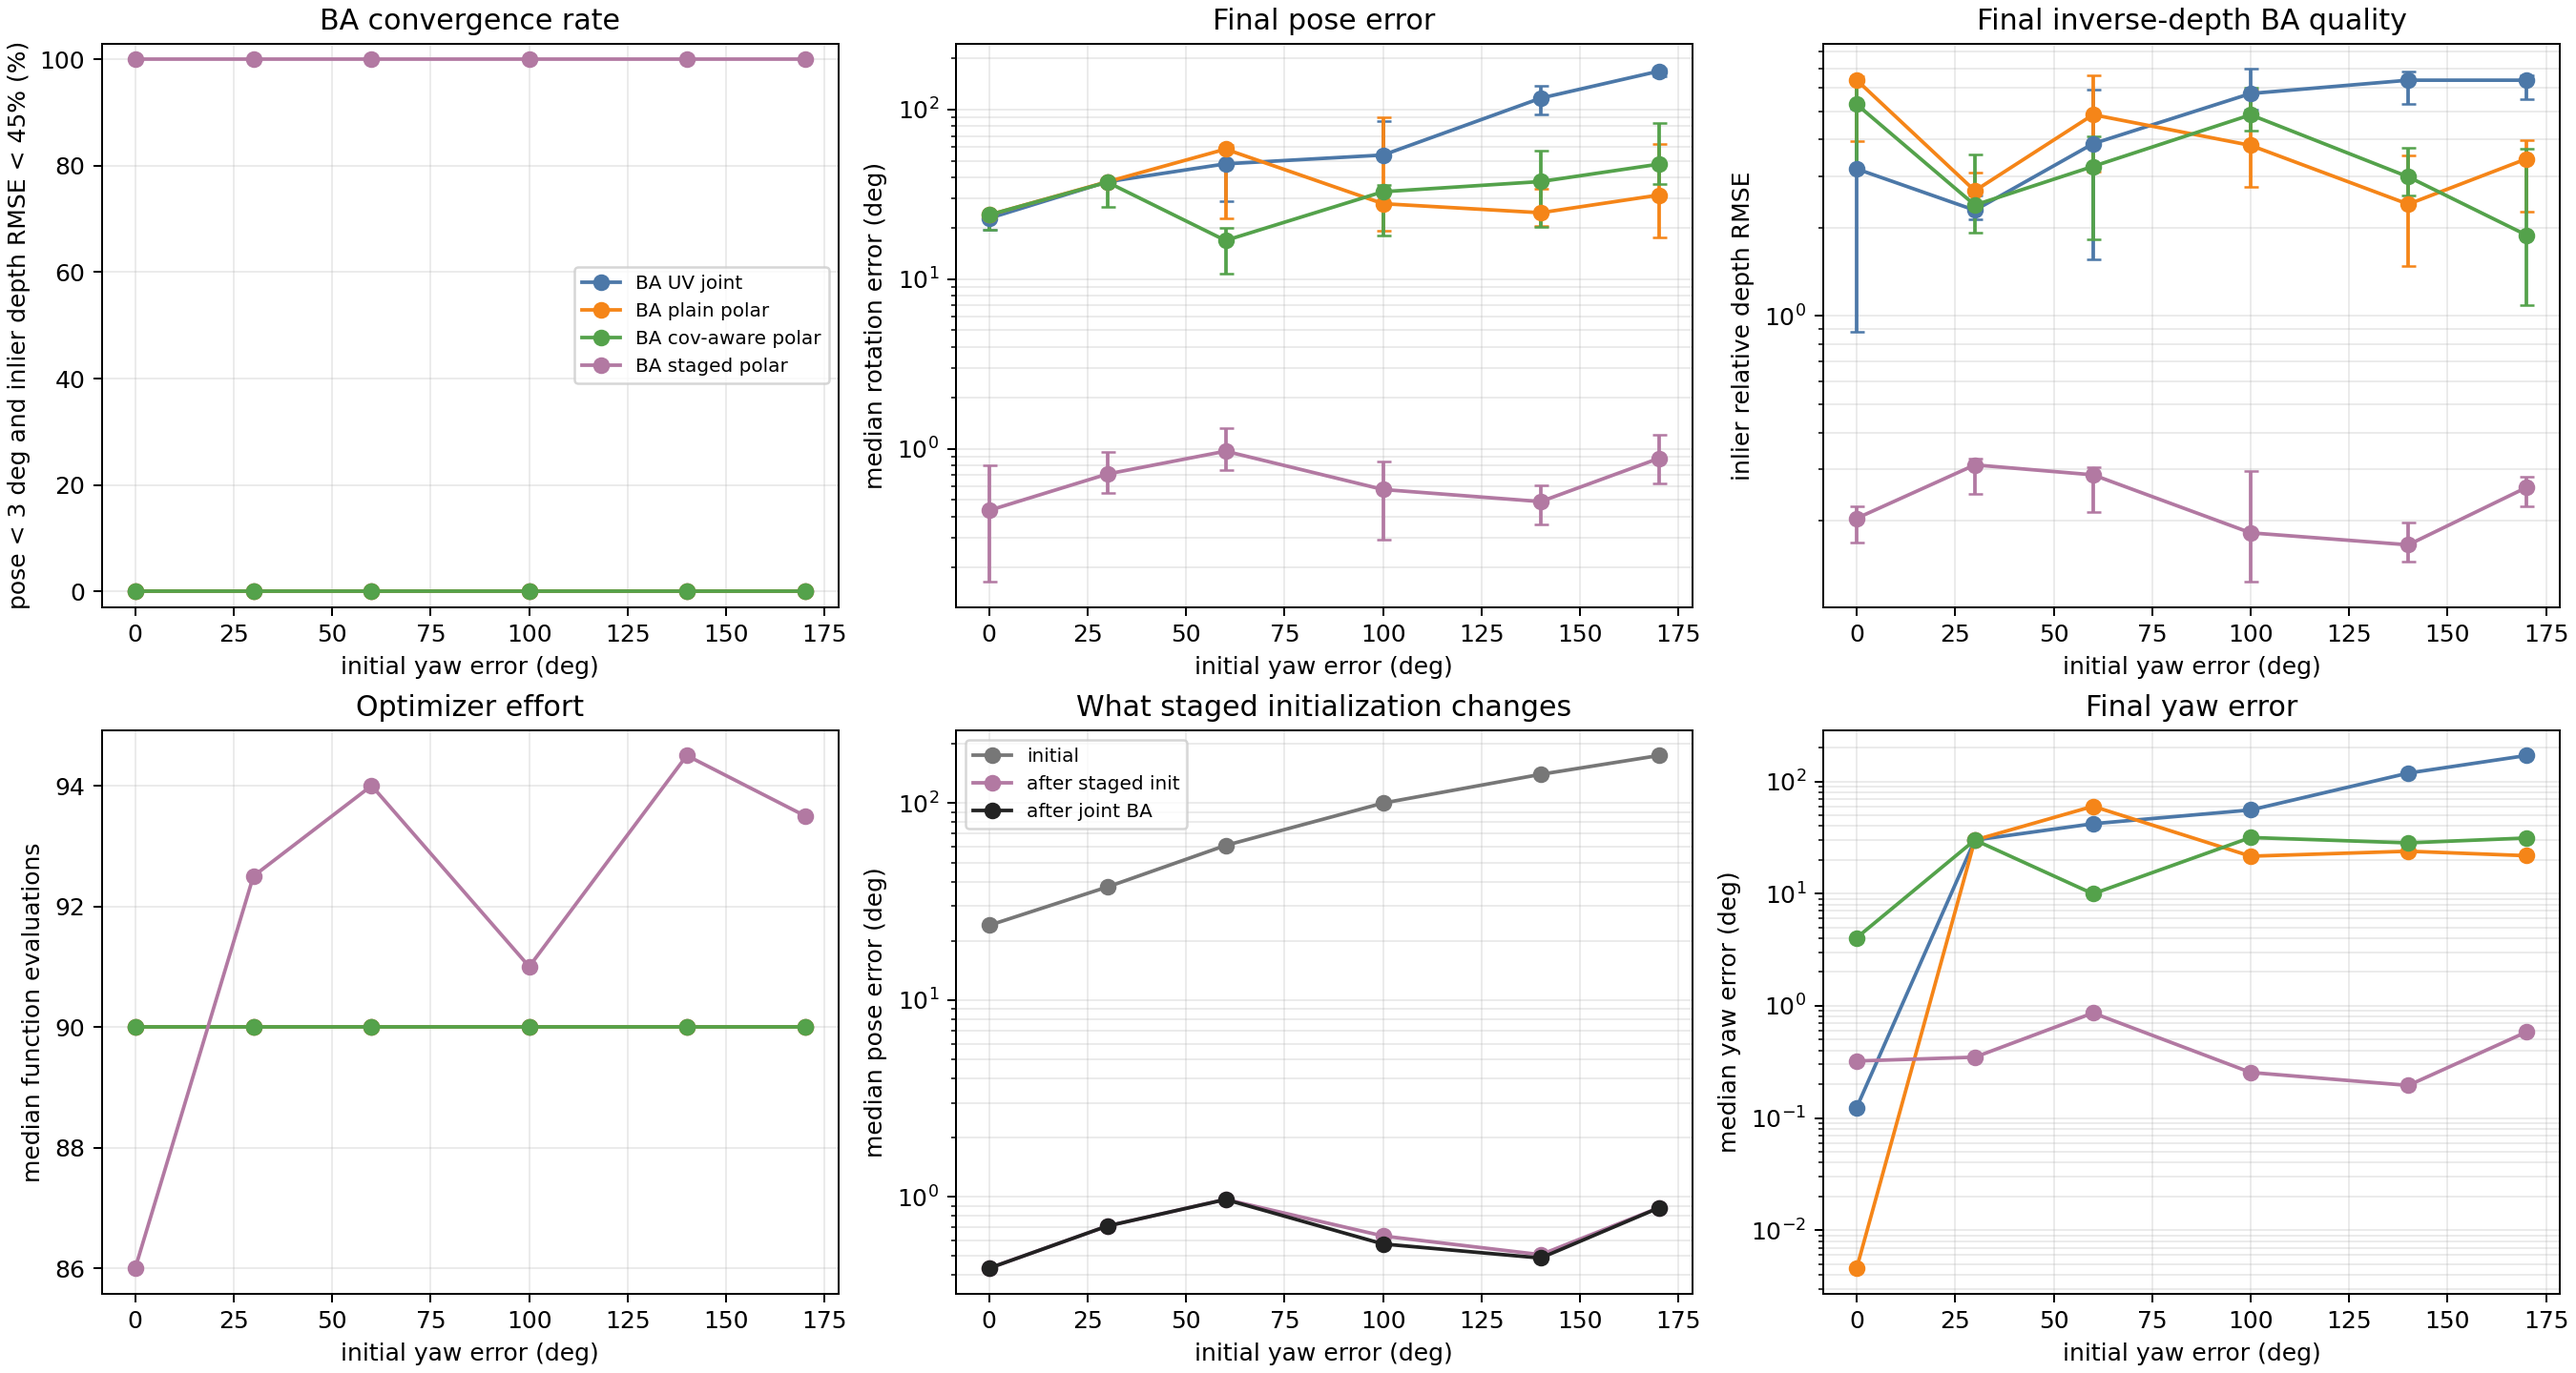
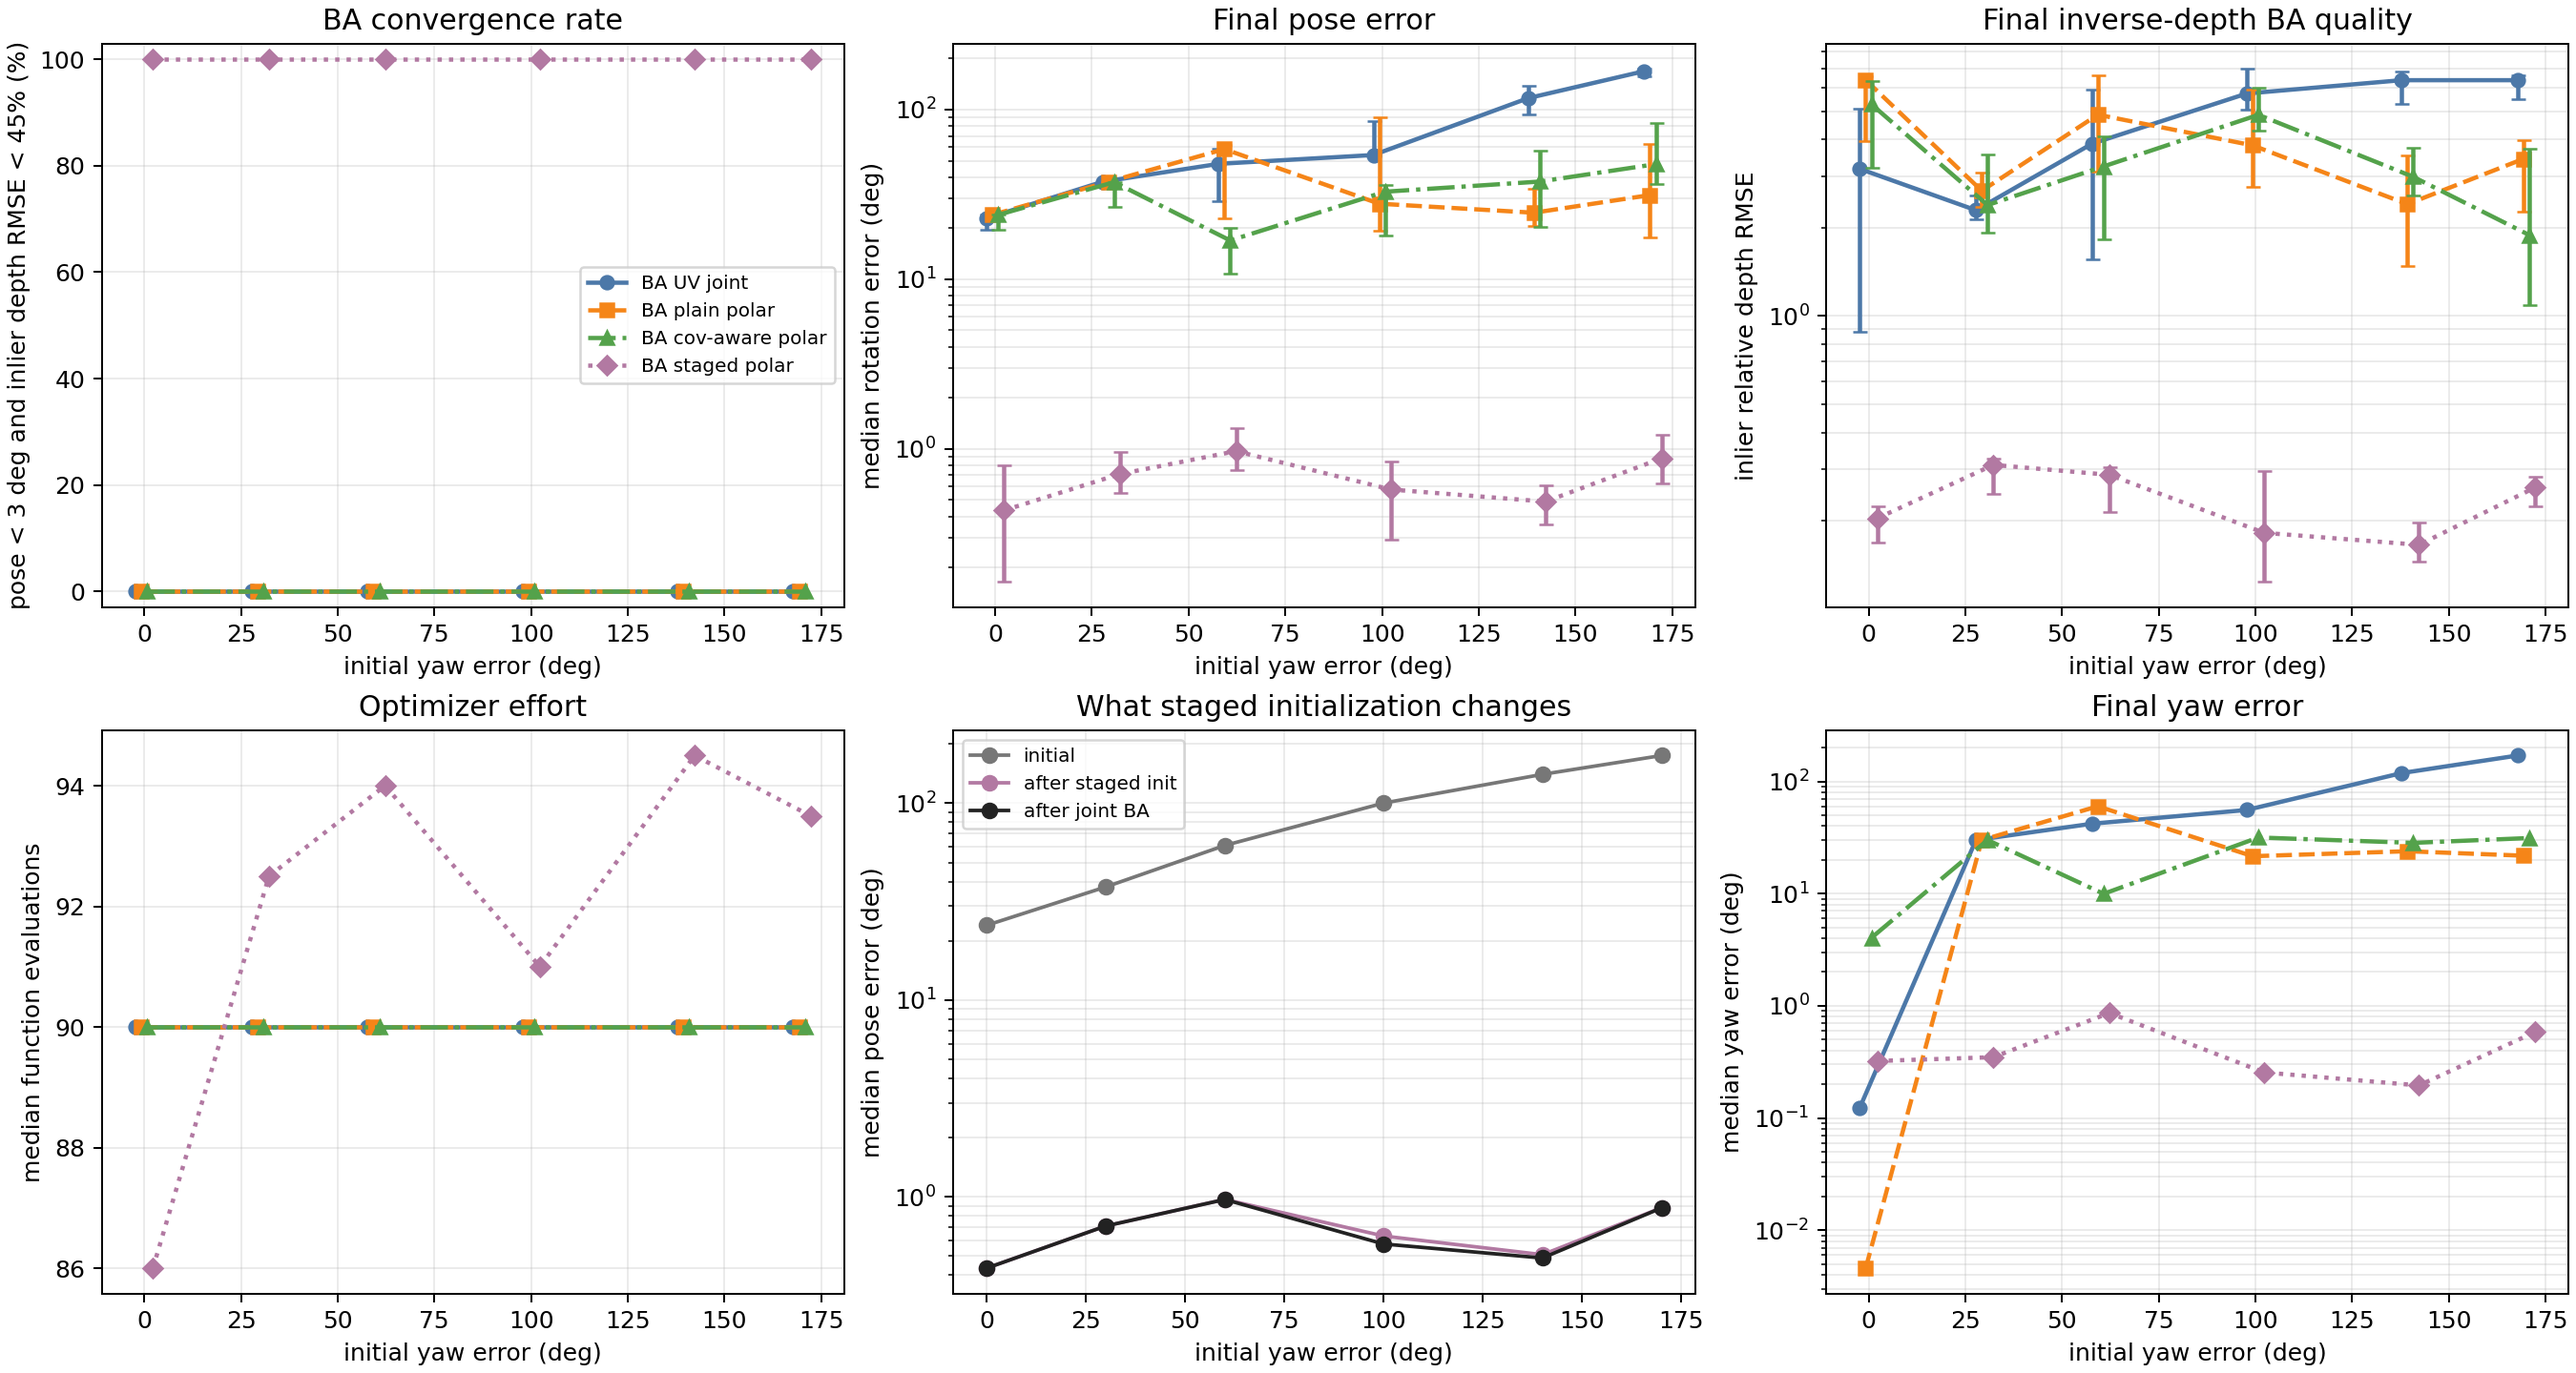
Improve Monte Carlo summary readability

diff --git a/src/rpy_polar_synth/visualize.py b/src/rpy_polar_synth/visualize.py
@@ -32,6 +32,67 @@ LABELS = {
 }
 
 
+MARKERS = {
+    "uv_joint": "o",
+    "polar_plain_joint": "s",
+    "polar_cov_joint": "^",
+    "polar_staged": "D",
+    "ba_uv_joint": "o",
+    "ba_polar_plain_joint": "s",
+    "ba_polar_cov_joint": "^",
+    "ba_polar_staged": "D",
+}
+
+
+LINESTYLES = {
+    "uv_joint": "-",
+    "polar_plain_joint": "--",
+    "polar_cov_joint": "-.",
+    "polar_staged": ":",
+    "ba_uv_joint": "-",
+    "ba_polar_plain_joint": "--",
+    "ba_polar_cov_joint": "-.",
+    "ba_polar_staged": ":",
+}
+
+
+def _x_offsets(yaw_levels: np.ndarray, methods: list[str]) -> dict[str, np.ndarray]:
+    if yaw_levels.size <= 1 or not methods:
+        return {method: yaw_levels.copy() for method in methods}
+
+    sorted_levels = np.sort(yaw_levels.astype(float))
+    deltas = np.diff(sorted_levels)
+    base_step = float(np.min(deltas)) if deltas.size else 1.0
+    jitter = min(base_step * 0.18, 1.5)
+    center = (len(methods) - 1) / 2.0
+    offsets = {}
+    for i, method in enumerate(methods):
+        offsets[method] = yaw_levels + (i - center) * jitter
+    return offsets
+
+
+def _plot_series(ax, x, y, method: str, label: str, yerr=None, zorder: int = 2) -> None:
+    common = {
+        "color": COLORS[method],
+        "marker": MARKERS.get(method, "o"),
+        "linestyle": LINESTYLES.get(method, "-"),
+        "linewidth": 1.8,
+        "markersize": 5.5,
+        "label": label,
+        "zorder": zorder,
+    }
+    if yerr is None:
+        ax.plot(x, y, **common)
+    else:
+        ax.errorbar(
+            x,
+            y,
+            yerr=yerr,
+            capsize=3,
+            **common,
+        )
+
+
 def save_scene_plot(scene: SyntheticScene, path: Path) -> None:
     path.parent.mkdir(parents=True, exist_ok=True)
     fig = plt.figure(figsize=(8, 6))
@@ -239,36 +300,30 @@ def _aggregate(records: np.ndarray, metric: str) -> tuple[list[str], np.ndarray,
 def save_monte_carlo_summary(records: np.ndarray, path: Path) -> None:
     methods = [method for method in LABELS if method in set(records["method"])]
     yaw_levels = np.unique(records["yaw_init_error_deg"])
+    plot_x = _x_offsets(yaw_levels, methods)
 
     fig, axes = plt.subplots(2, 2, figsize=(12, 8), constrained_layout=True)
 
     ax = axes[0, 0]
-    for method in methods:
+    for i, method in enumerate(methods):
         rates = []
         for yaw in yaw_levels:
             mask = (records["method"] == method) & (records["yaw_init_error_deg"] == yaw)
             rates.append(100.0 * np.mean(records["converged_2deg"][mask]))
-        ax.plot(yaw_levels, rates, marker="o", color=COLORS[method], label=LABELS[method])
+        _plot_series(ax, plot_x[method], rates, method, LABELS[method], zorder=2 + i)
     ax.set_title("Convergence rate")
     ax.set_xlabel("initial yaw error (deg)")
     ax.set_ylabel("runs below 2 deg rotation error (%)")
     ax.set_ylim(-3, 103)
     ax.grid(True, alpha=0.25)
-    ax.legend()
+    ax.legend(fontsize=8, ncols=2)
 
     ax = axes[0, 1]
     methods, yaw_levels, med, spread = _aggregate(records, "rotation_error_deg")
+    plot_x = _x_offsets(yaw_levels, methods)
     for i, method in enumerate(methods):
         yerr = np.vstack([med[i] - spread[0, i], spread[1, i] - med[i]])
-        ax.errorbar(
-            yaw_levels,
-            med[i],
-            yerr=yerr,
-            marker="o",
-            capsize=3,
-            color=COLORS[method],
-            label=LABELS[method],
-        )
+        _plot_series(ax, plot_x[method], med[i], method, LABELS[method], yerr=yerr, zorder=2 + i)
     ax.set_yscale("log")
     ax.set_title("Final rotation error")
     ax.set_xlabel("initial yaw error (deg)")
@@ -277,8 +332,9 @@ def save_monte_carlo_summary(records: np.ndarray, path: Path) -> None:
 
     ax = axes[1, 0]
     methods, yaw_levels, med, _ = _aggregate(records, "nfev")
+    plot_x = _x_offsets(yaw_levels, methods)
     for i, method in enumerate(methods):
-        ax.plot(yaw_levels, med[i], marker="o", color=COLORS[method], label=LABELS[method])
+        _plot_series(ax, plot_x[method], med[i], method, LABELS[method], zorder=2 + i)
     ax.set_title("Optimizer effort")
     ax.set_xlabel("initial yaw error (deg)")
     ax.set_ylabel("median function evaluations")
@@ -286,8 +342,9 @@ def save_monte_carlo_summary(records: np.ndarray, path: Path) -> None:
 
     ax = axes[1, 1]
     methods, yaw_levels, med, _ = _aggregate(records, "tilt_yaw_coupling")
+    plot_x = _x_offsets(yaw_levels, methods)
     for i, method in enumerate(methods):
-        ax.plot(yaw_levels, med[i], marker="o", color=COLORS[method], label=LABELS[method])
+        _plot_series(ax, plot_x[method], med[i], method, LABELS[method], zorder=2 + i)
     ax.set_title("Tilt-yaw coupling at solution")
     ax.set_xlabel("initial yaw error (deg)")
     ax.set_ylabel("normalized Hessian cross block")
@@ -341,16 +398,17 @@ def _aggregate_methods(
 def save_ba_summary(records: np.ndarray, path: Path) -> None:
     methods = ["ba_uv_joint", "ba_polar_plain_joint", "ba_polar_cov_joint", "ba_polar_staged"]
     yaw_levels = np.unique(records["yaw_init_error_deg"])
+    plot_x = _x_offsets(yaw_levels, methods)
 
     fig, axes = plt.subplots(2, 3, figsize=(15, 8), constrained_layout=True)
 
     ax = axes[0, 0]
-    for method in methods:
+    for i, method in enumerate(methods):
         rates = []
         for yaw in yaw_levels:
             mask = (records["method"] == method) & (records["yaw_init_error_deg"] == yaw)
             rates.append(100.0 * np.mean(records["converged"][mask]))
-        ax.plot(yaw_levels, rates, marker="o", color=COLORS[method], label=LABELS[method])
+        _plot_series(ax, plot_x[method], rates, method, LABELS[method], zorder=2 + i)
     ax.set_title("BA convergence rate")
     ax.set_xlabel("initial yaw error (deg)")
     ax.set_ylabel("pose < 3 deg and inlier depth RMSE < 45% (%)")
@@ -360,17 +418,10 @@ def save_ba_summary(records: np.ndarray, path: Path) -> None:
 
     ax = axes[0, 1]
     yaw_levels, med, spread = _aggregate_methods(records, methods, "rotation_error_deg")
+    plot_x = _x_offsets(yaw_levels, methods)
     for i, method in enumerate(methods):
         yerr = np.vstack([med[i] - spread[0, i], spread[1, i] - med[i]])
-        ax.errorbar(
-            yaw_levels,
-            med[i],
-            yerr=yerr,
-            marker="o",
-            capsize=3,
-            color=COLORS[method],
-            label=LABELS[method],
-        )
+        _plot_series(ax, plot_x[method], med[i], method, LABELS[method], yerr=yerr, zorder=2 + i)
     ax.set_yscale("log")
     ax.set_title("Final pose error")
     ax.set_xlabel("initial yaw error (deg)")
@@ -379,17 +430,10 @@ def save_ba_summary(records: np.ndarray, path: Path) -> None:
 
     ax = axes[0, 2]
     yaw_levels, med, spread = _aggregate_methods(records, methods, "inlier_depth_rel_rmse")
+    plot_x = _x_offsets(yaw_levels, methods)
     for i, method in enumerate(methods):
         yerr = np.vstack([med[i] - spread[0, i], spread[1, i] - med[i]])
-        ax.errorbar(
-            yaw_levels,
-            med[i],
-            yerr=yerr,
-            marker="o",
-            capsize=3,
-            color=COLORS[method],
-            label=LABELS[method],
-        )
+        _plot_series(ax, plot_x[method], med[i], method, LABELS[method], yerr=yerr, zorder=2 + i)
     ax.set_yscale("log")
     ax.set_title("Final inverse-depth BA quality")
     ax.set_xlabel("initial yaw error (deg)")
@@ -398,8 +442,9 @@ def save_ba_summary(records: np.ndarray, path: Path) -> None:
 
     ax = axes[1, 0]
     yaw_levels, med, _ = _aggregate_methods(records, methods, "nfev")
+    plot_x = _x_offsets(yaw_levels, methods)
     for i, method in enumerate(methods):
-        ax.plot(yaw_levels, med[i], marker="o", color=COLORS[method], label=LABELS[method])
+        _plot_series(ax, plot_x[method], med[i], method, LABELS[method], zorder=2 + i)
     ax.set_title("Optimizer effort")
     ax.set_xlabel("initial yaw error (deg)")
     ax.set_ylabel("median function evaluations")
@@ -429,8 +474,9 @@ def save_ba_summary(records: np.ndarray, path: Path) -> None:
 
     ax = axes[1, 2]
     yaw_levels, med, _ = _aggregate_methods(records, methods, "yaw_error_deg")
+    plot_x = _x_offsets(yaw_levels, methods)
     for i, method in enumerate(methods):
-        ax.plot(yaw_levels, med[i], marker="o", color=COLORS[method], label=LABELS[method])
+        _plot_series(ax, plot_x[method], med[i], method, LABELS[method], zorder=2 + i)
     ax.set_yscale("log")
     ax.set_title("Final yaw error")
     ax.set_xlabel("initial yaw error (deg)")

diff --git a/README.md b/README.md
@@ -234,7 +234,20 @@ What the three slices together support:
 
 `monte_carlo_summary.png` summarizes the clean single-view Monte-Carlo experiment.
 
-Key reading:
+Visual note:
+
+- Several curves are numerically identical or extremely close in this clean experiment.
+- To avoid hiding one method behind another, the plotted x positions are shifted by a tiny method-specific visual offset.
+- The true x variable is still the initialization error of the project-specific optical-axis `yaw`; the offset is only for readability.
+
+Subplot reading:
+
+- **Top-left: Convergence rate**. This reports the percentage of trials whose final rotation error is below 2 degrees. In the current clean single-view setup, all methods reach 100% across all initial yaw errors, so the curves naturally overlap. This means the problem is too easy to separate convergence basins.
+- **Top-right: Final rotation error**. This reports the median final rotation error on a log scale. `polar_cov_joint` and `polar_staged` nearly overlap because the staged initializer and direct covariance-aware polar optimization reach the same optimum in this low-dimensional pose-only case. `polar_plain_joint` is worse, showing that raw polar weighting is statistically weaker.
+- **Bottom-left: Optimizer effort**. This reports median function evaluations. `polar_staged` usually costs more evaluations because it runs theta initialization, phi initialization, and final joint refinement. In this easy setting, the extra stages do not buy a convergence-rate improvement.
+- **Bottom-right: Tilt-yaw coupling at solution**. This reports a normalized Hessian cross-block between the roll/pitch tilt variables and the optical-axis yaw variable. Smaller values mean the estimated solution has weaker local tilt-yaw coupling. In this clean setup, methods are close because they all converge to nearly the same local geometry.
+
+Key conclusion:
 
 - All methods converge in this clean 3-DOF pose-only setup.
 - `polar_plain_joint` has a larger final error because raw `[theta, phi]` weighting ignores the actual covariance induced by pixel noise.
@@ -394,3 +407,4 @@ Suggested version labels:
 | `v0.2.0-ba-stress` | two-view inverse-depth BA stress-test implementation and analysis |
 | `v0.2.1-figure-report` | detailed figure interpretation and project-specific RPY documentation |
 | `v0.2.2-landscape-slices` | complete roll-pitch-yaw cost landscape slices with six additional panels |
+| `v0.2.3-summary-readability` | Monte-Carlo subplot explanations and de-overlapped summary curves |
